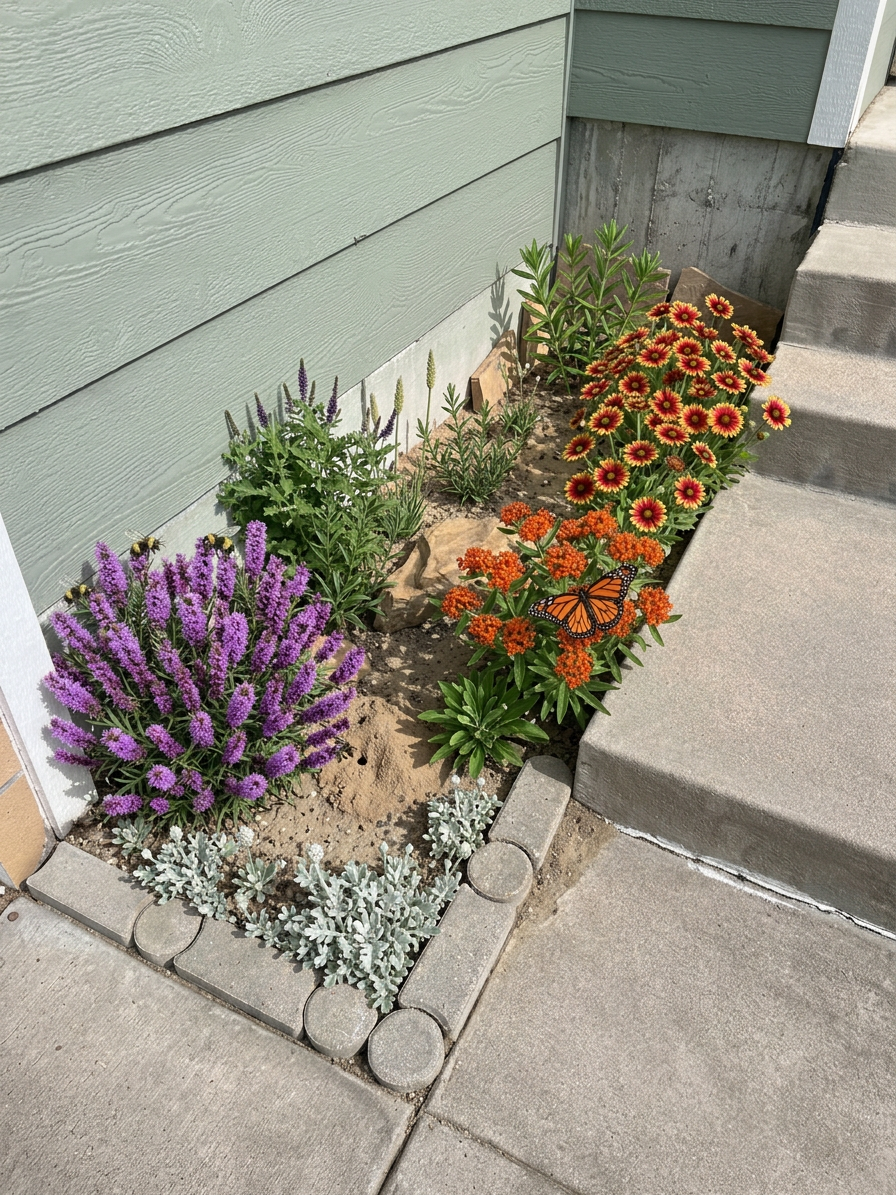
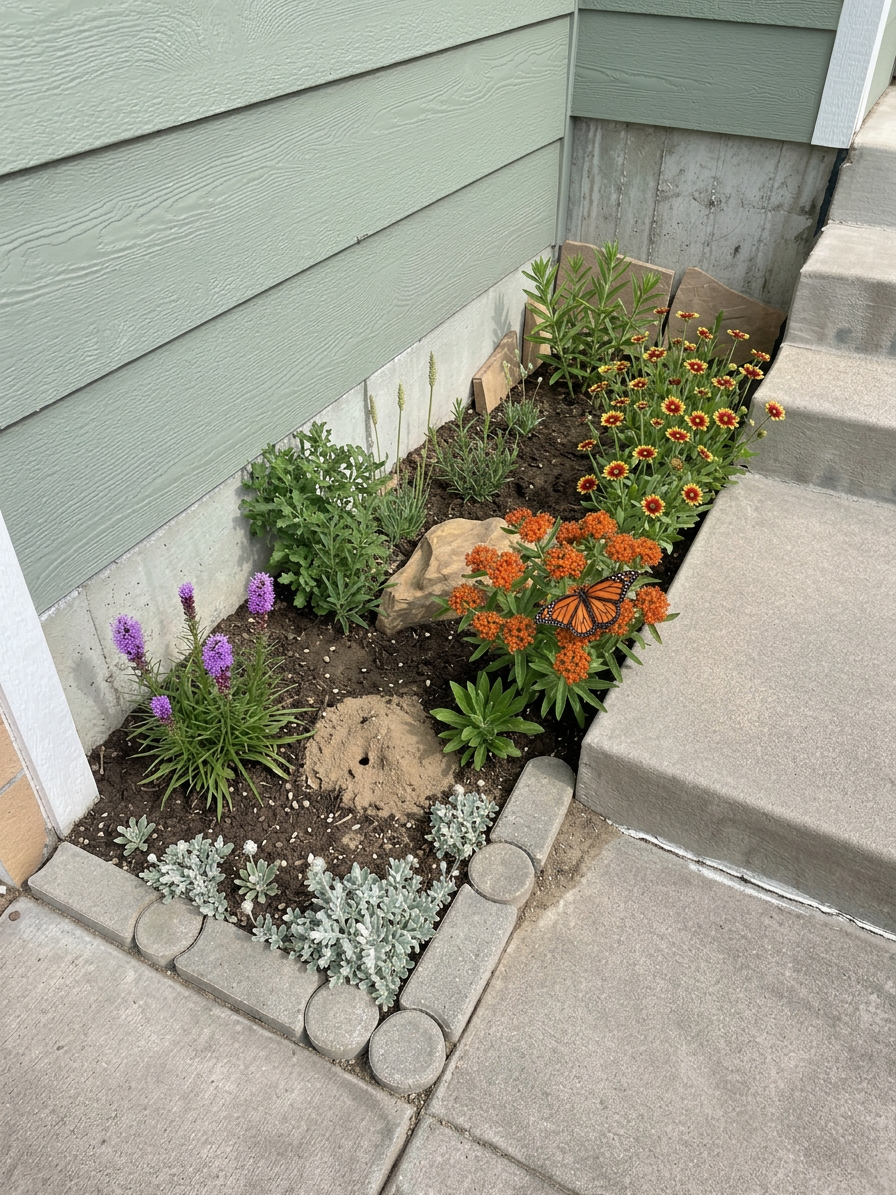
Split vision section into Year 1 and Year 2-3 with realistic renderings
Year 1 shows modest first-year growth with bare soil visible.
Year 2-3 shows fully established garden at mature size.

diff --git a/foundation-bed-design.html b/foundation-bed-design.html
@@ -272,11 +272,19 @@
 
   <!-- COMPLETED VISION -->
   <section id="vision">
-    <h2>Completed Vision — Year 1 Late Summer</h2>
+    <h2>Completed Vision</h2>
     <div class="card" style="text-align: center;">
-      <img src="foundation-bed-vision-year1.png" alt="Rendering of the completed foundation bed at Year 1 — six Colorado native species with bare soil patches, decomposed granite, and native sandstone rock" class="status-photo">
+      <h3 style="font-size:1em; color:#2a4a20; margin-bottom:12px;">Year 1 — Late Summer</h3>
+      <img src="foundation-bed-vision-year1.png" alt="Rendering of the foundation bed at Year 1 — plants still small and establishing with bare soil visible between them" class="status-photo">
       <p style="font-size:0.88em; color:#666; margin-top:14px;">
-        Year 1 late-summer rendering. Plants are still establishing — roots growing deep while tops stay modest. Two L-shaped planting clusters at each end of the bed (Lead Plant + Penstemon at the corner end, Milkweed + Blanket Flower at the stairs end) frame an open center zone with native accent rock, bare soil bee-nesting habitat, and the dormant Pasque Flower. Pussytoes plugs line the paver edge with gaps still visible between them. Decomposed granite along the wall base provides foundation clearance and drainage.
+        Year 1 late-summer rendering. Plants are still establishing — roots growing deep while tops stay modest. Lead Plant and Penstemon blooming but at roughly half their mature size. Milkweed and Blanket Flower flowering near the stairs. Bare soil visible throughout the bed — this is normal and intentional. Pussytoes plugs along the paver edge still have gaps between them. The bed looks sparse compared to a conventional garden, but the root systems are building the foundation for Year 2's dramatic growth leap.
+      </p>
+    </div>
+    <div class="card" style="text-align: center; margin-top: 16px;">
+      <h3 style="font-size:1em; color:#2a4a20; margin-bottom:12px;">Year 2–3 — Established</h3>
+      <img src="foundation-bed-vision-year2-3.png" alt="Rendering of the foundation bed at Year 2-3 — plants fully established, dense blooms, connected pussytoes mat" class="status-photo">
+      <p style="font-size:0.88em; color:#666; margin-top:14px;">
+        Year 2–3 rendering. Plants have doubled in size and filled their positions. Lead Plant covered in dense purple flower spikes with bumble bees. Butterfly Milkweed blooming vivid orange — watch for Monarchs. Blanket Flower in full display. Pussytoes mat has connected along the full front edge. Bare soil patches are still maintained for ground-nesting bees. The bed is now self-sustaining: nearly zero supplemental watering, continuous bloom Feb–Oct, and more ecological value per square foot than most entire yards.
       </p>
     </div>
   </section>
